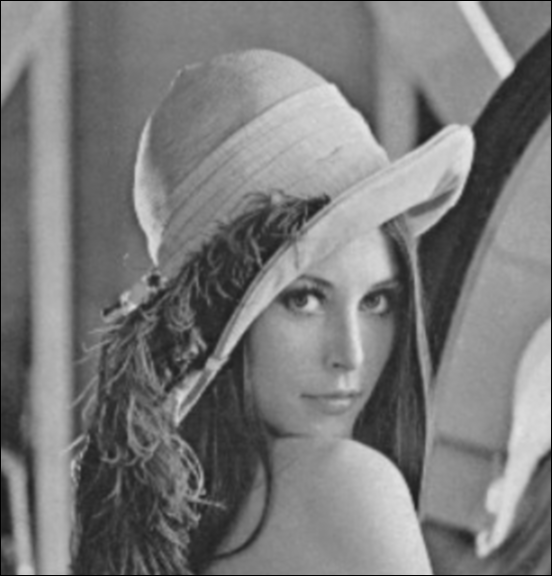
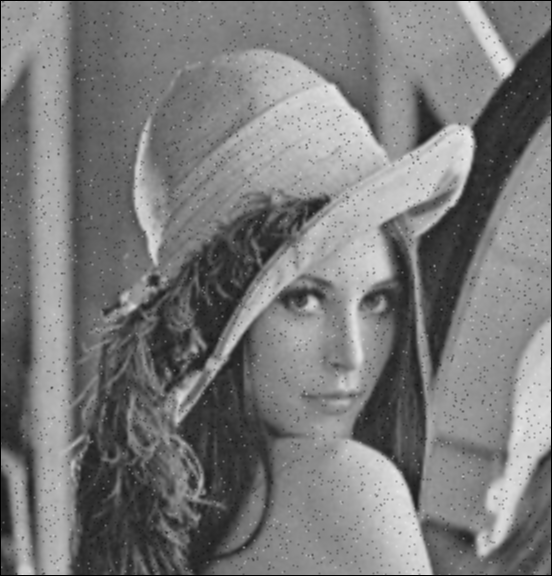
implemented salt and pepper noise

diff --git a/StateManager.py b/StateManager.py
@@ -1,3 +1,4 @@
+from random import random
 from tkinter import StringVar
 from tkinter.ttk import Notebook
 import cv2
@@ -7,6 +8,7 @@ from struct import unpack
 import numpy as np
 from matplotlib import pyplot as plt
 from ImageFrame import ImageFrame
+import random
 
 
 # Custom subject class that triggers the update method of classes when variables are changed
@@ -342,6 +344,9 @@ class StateManager(Subject):
             "Low Gamma": low_gamma,
         }
 
+        # salt and pepper
+        salt_and_pepper = self.salt_and_pepper()
+
         # average
         average = self.generate_averaging_filter()
 
@@ -411,6 +416,31 @@ class StateManager(Subject):
         new_img = new_img.astype(np.uint8)
         cv2.imwrite('./assets/average.png', new_img)
         cv2.imshow('averaging filter', new_img)
+
+    # DREW: toggle to apply filter on salt and pepper image or purely grayscale lang
+    def salt_and_pepper(self):
+        temp_img = cv2.imread('./assets/grayscale.png', 0)
+
+        rows, cols = temp_img.shape
+
+        num_pix = random.randint(300, 10000)
+
+        # Change to white
+        for i in range(num_pix):
+            y = random.randint(0, rows-1)
+            x = random.randint(0, cols-1)
+            temp_img[y][x] = 255
+
+        # Change to black
+        num_pix = random.randint(300, 10000)
+        for i in range(num_pix):
+            y = random.randint(0, rows-1)
+            x = random.randint(0, cols-1)
+            temp_img[y][x] = 0
+
+        cv2.imwrite('./assets/salt_and_pepper.png', temp_img)
+        cv2.imshow('salt and pepper', temp_img)
+
 
     def median_filtering(self):
         cv2.imread('./assets/pic.png', 0)
